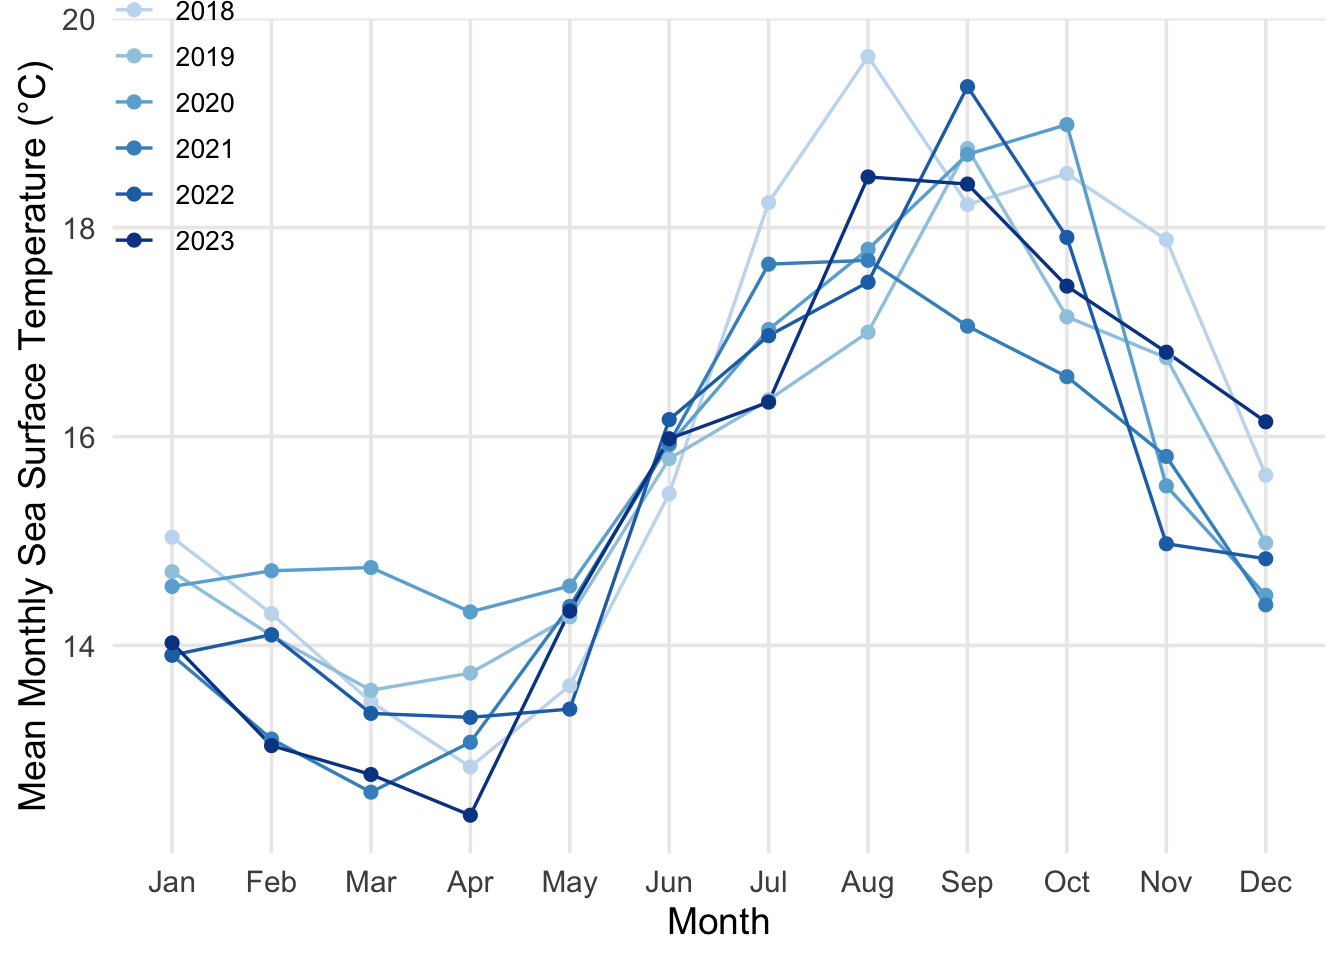
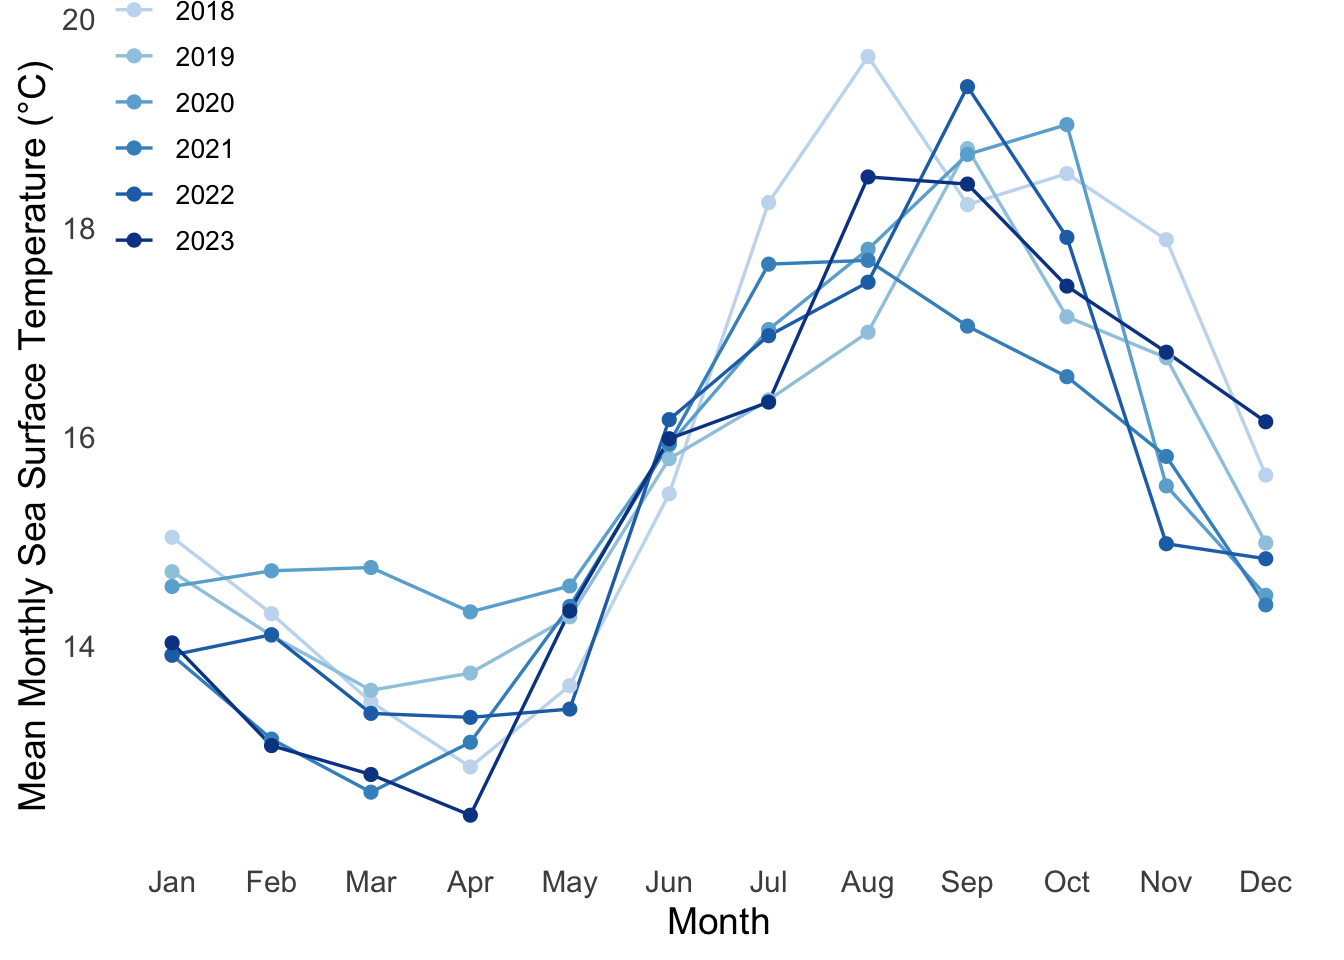
got rid of the gridlines behind the recreated plot with addition of major function in additon to the alr minor

diff --git a/code/quartodoc.html b/code/quartodoc.html
@@ -145,11 +145,11 @@ pre > code.sourceCode > span > a:first-child::before { text-decoration: underlin
 <pre><code># A tibble: 5 × 4
   site    year month mean_monthly_sst
   &lt;chr&gt;  &lt;dbl&gt; &lt;ord&gt;            &lt;dbl&gt;
-1 SITE6   2023 Sep               19.6
-2 SITE17  2018 Aug               21.4
-3 SITE1   2020 Nov               15.5
-4 SITE14  2023 Dec               15.9
-5 SITE18  2022 Nov               15.6</code></pre>
+1 SITE12  2018 Feb               14.8
+2 SITE6   2022 Feb               14.5
+3 SITE9   2021 Apr               12.6
+4 SITE8   2019 Aug               15.8
+5 SITE14  2022 May               12.3</code></pre>
 </div>
 </div>
 <div class="cell">
@@ -192,8 +192,9 @@ pre > code.sourceCode > span > a:first-child::before { text-decoration: underlin
 <span id="cb6-27"><a href="#cb6-27" aria-hidden="true" tabindex="-1"></a>    <span class="at">legend.position =</span> <span class="fu">c</span>(<span class="fl">0.05</span>, <span class="fl">0.90</span>),</span>
 <span id="cb6-28"><a href="#cb6-28" aria-hidden="true" tabindex="-1"></a>    <span class="at">legend.title =</span> <span class="fu">element_text</span>(<span class="at">size =</span><span class="dv">11</span>),</span>
 <span id="cb6-29"><a href="#cb6-29" aria-hidden="true" tabindex="-1"></a>    <span class="at">legend.text =</span> <span class="fu">element_text</span>(<span class="at">size =</span> <span class="dv">10</span>),</span>
-<span id="cb6-30"><a href="#cb6-30" aria-hidden="true" tabindex="-1"></a>    <span class="at">panel.grid.minor =</span> <span class="fu">element_blank</span>()</span>
-<span id="cb6-31"><a href="#cb6-31" aria-hidden="true" tabindex="-1"></a>  )</span></code><button title="Copy to Clipboard" class="code-copy-button"><i class="bi"></i></button></pre></div>
+<span id="cb6-30"><a href="#cb6-30" aria-hidden="true" tabindex="-1"></a>    <span class="at">panel.grid.minor =</span> <span class="fu">element_blank</span>(),</span>
+<span id="cb6-31"><a href="#cb6-31" aria-hidden="true" tabindex="-1"></a>    <span class="at">panel.grid.major =</span> <span class="fu">element_blank</span>() <span class="co">#blanking out the gridlines on the plot</span></span>
+<span id="cb6-32"><a href="#cb6-32" aria-hidden="true" tabindex="-1"></a>  )</span></code><button title="Copy to Clipboard" class="code-copy-button"><i class="bi"></i></button></pre></div>
 <div class="cell-output cell-output-stderr">
 <pre><code>Warning: Using `size` aesthetic for lines was deprecated in ggplot2 3.4.0.
 ℹ Please use `linewidth` instead.</code></pre>
